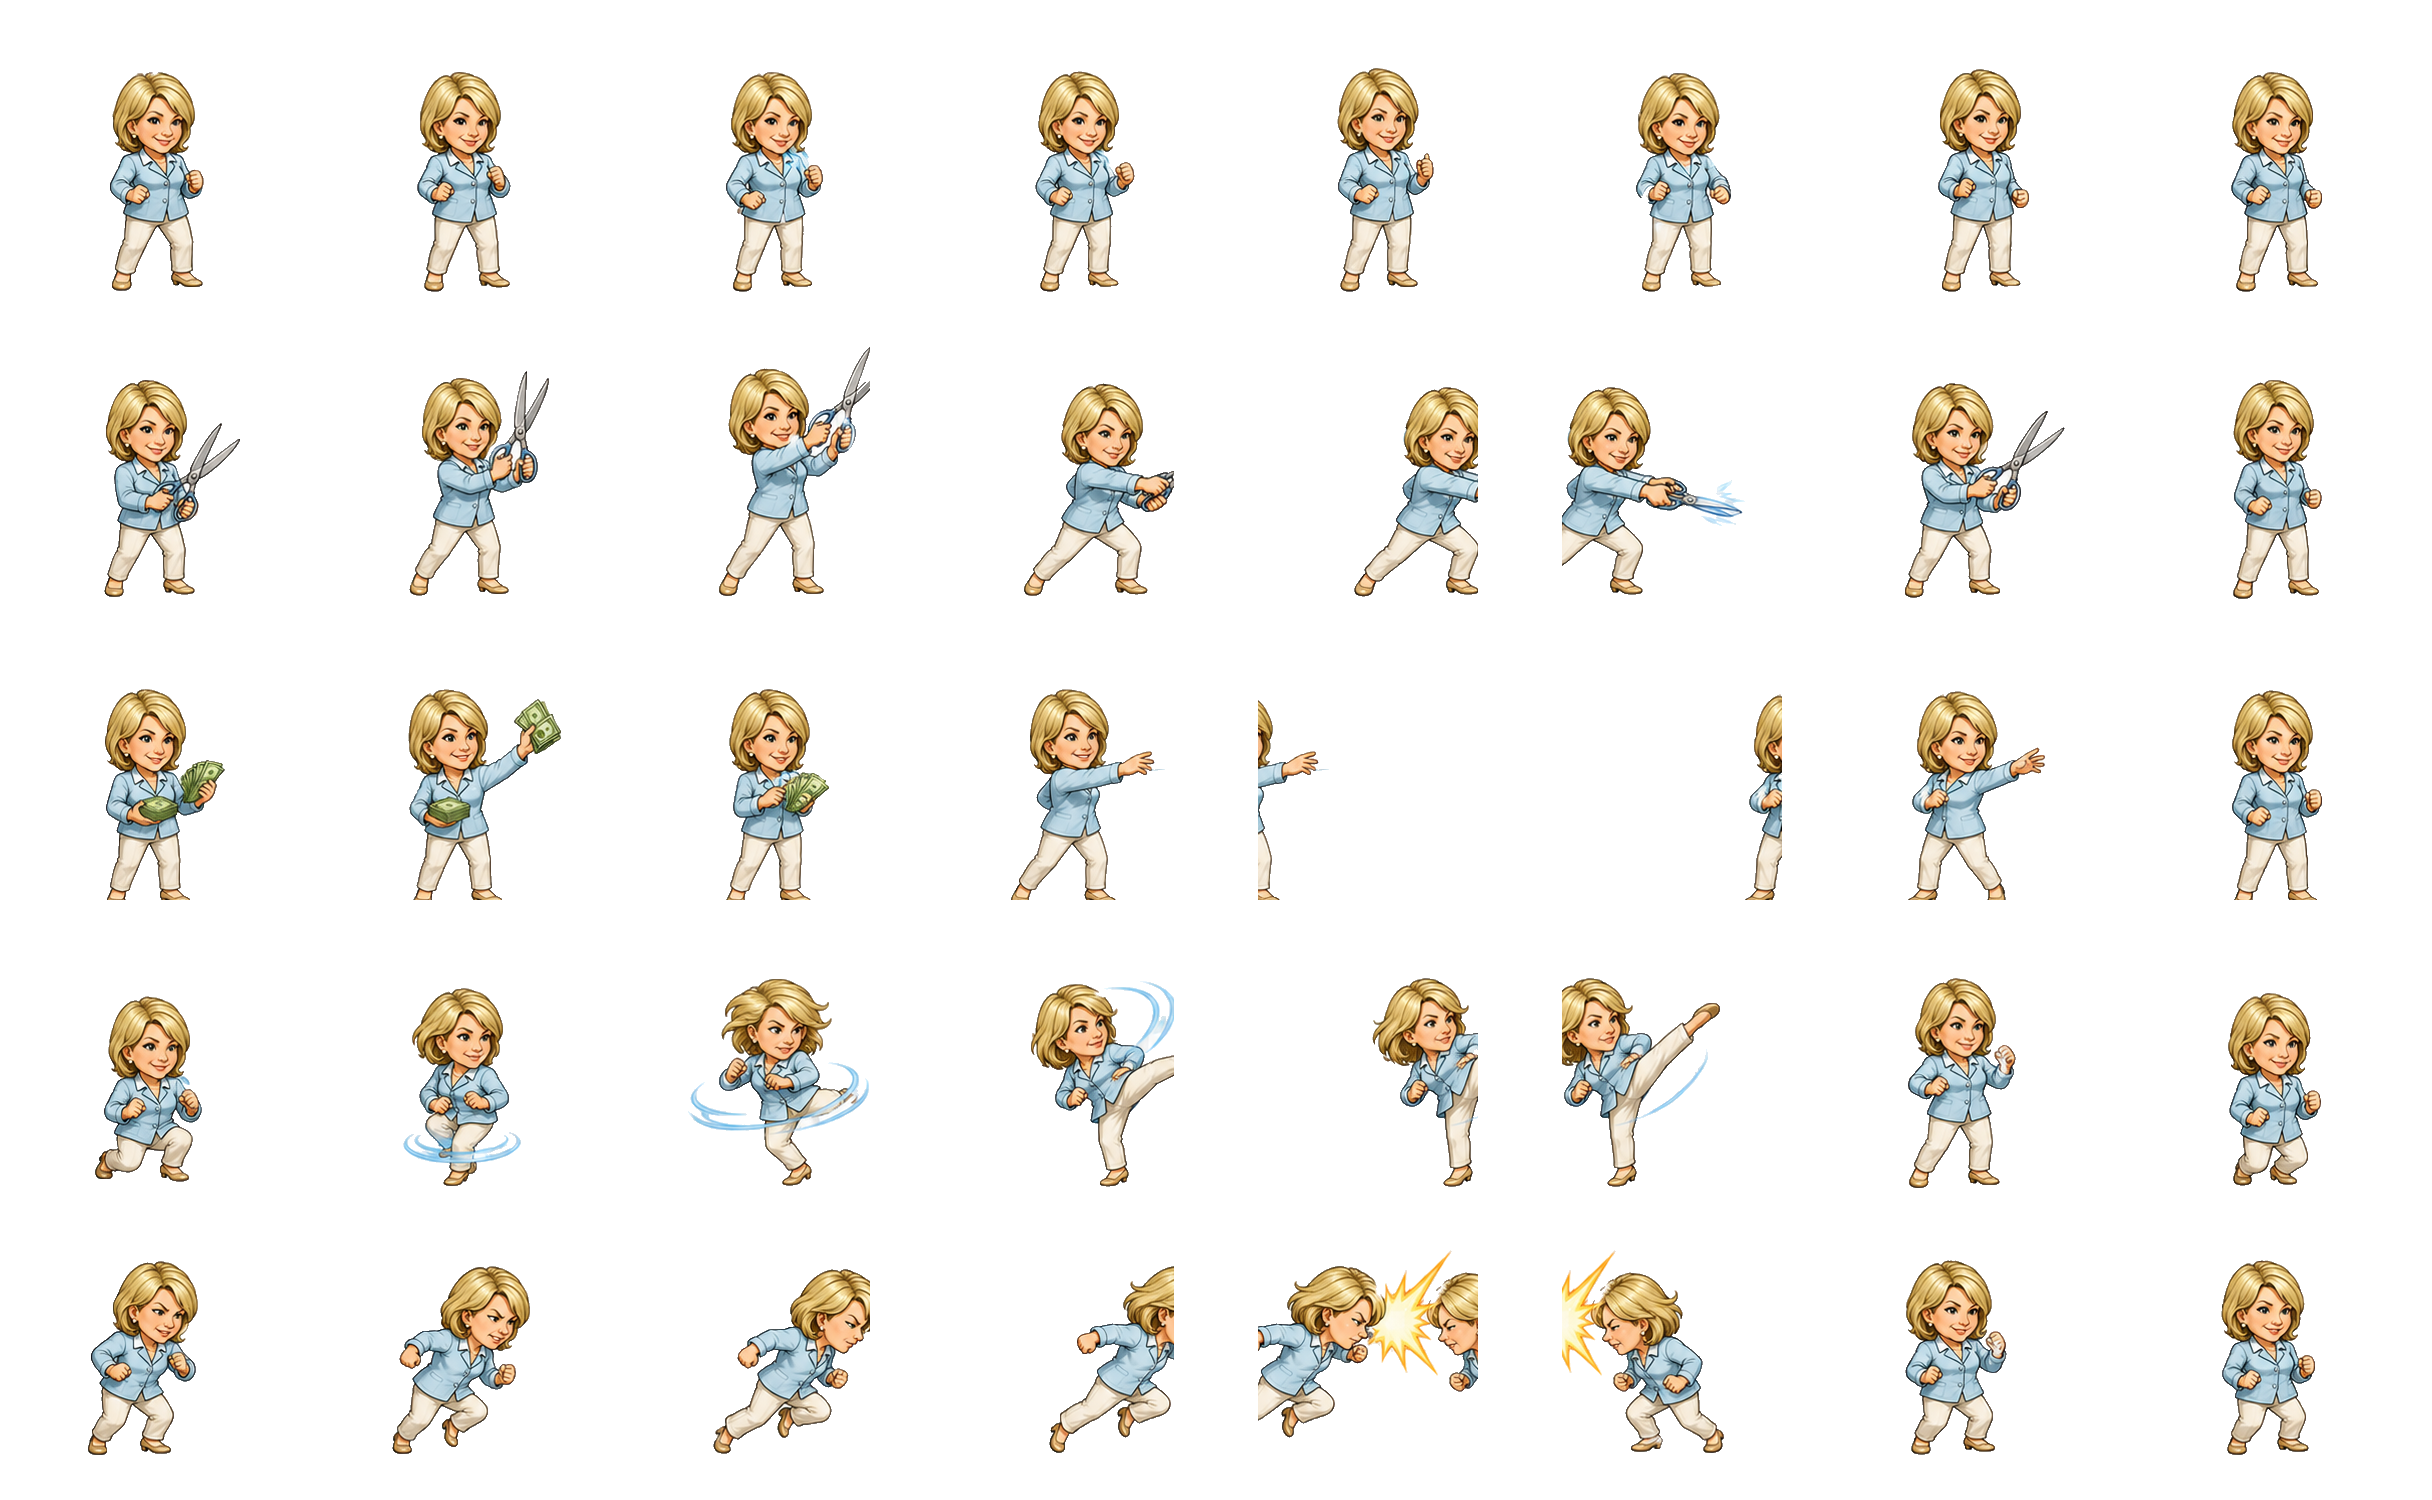
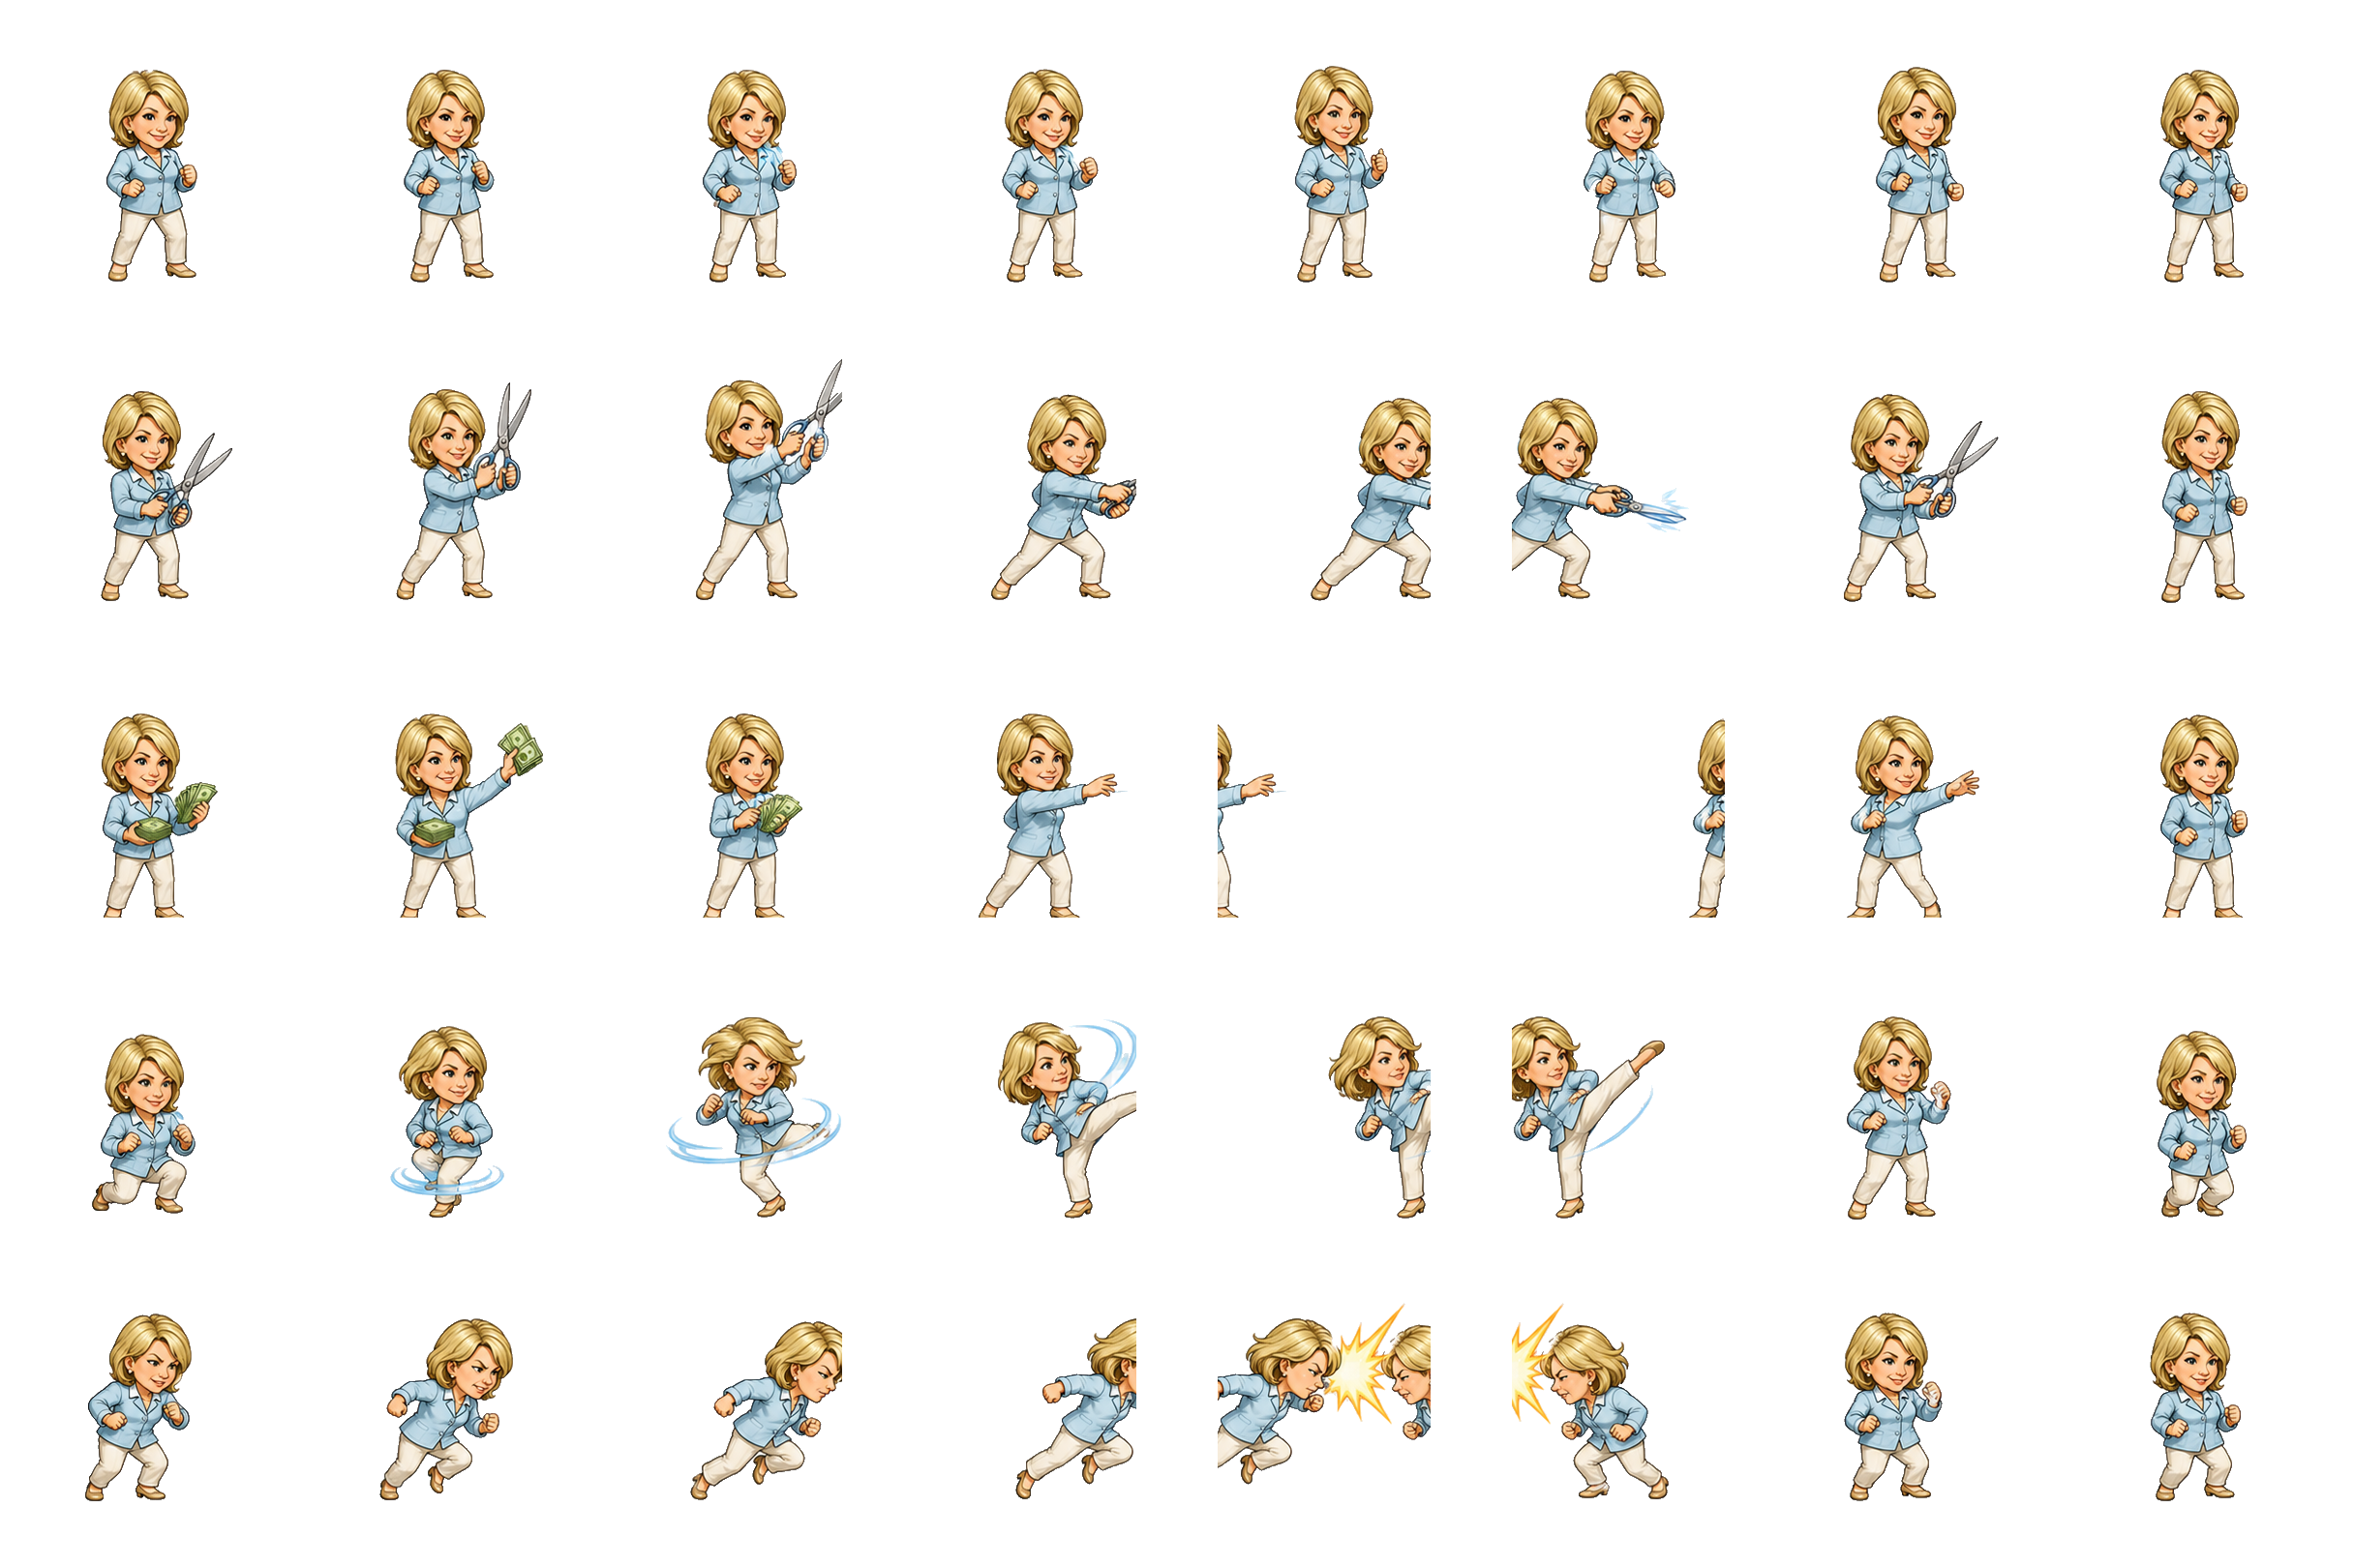
Polish fighter QA issues

diff --git a/src/styles.css b/src/styles.css
@@ -2032,8 +2032,8 @@ h2 {
 
   .attack-diamond,
   .shell:has(#fight-screen:not([hidden])) .attack-diamond {
-    --diamond-size: 152px;
-    --diamond-button: 52px;
+    --diamond-size: 182px;
+    --diamond-button: 56px;
   }
 
   .bonus-actions,
@@ -2060,24 +2060,24 @@ h2 {
 @media (max-width: 360px) {
   .controls,
   .shell:has(#fight-screen:not([hidden])) .controls {
-    grid-template-columns: 70px 144px;
+    grid-template-columns: 70px 150px;
   }
 
   .attack-diamond,
   .shell:has(#fight-screen:not([hidden])) .attack-diamond {
-    --diamond-size: 140px;
-    --diamond-button: 48px;
+    --diamond-size: 162px;
+    --diamond-button: 50px;
   }
 
   .bonus-actions,
   .shell:has(#fight-screen:not([hidden])) .bonus-actions {
-    width: 144px;
+    width: 150px;
   }
 }
 
 @media (max-width: 360px) {
   body.is-fighting .controls {
-    grid-template-columns: 70px 144px;
+    grid-template-columns: 70px 150px;
   }
 
   body.is-fighting .control-actions {
@@ -2089,12 +2089,12 @@ h2 {
   }
 
   body.is-fighting .attack-diamond {
-    --diamond-size: 140px;
-    --diamond-button: 48px;
+    --diamond-size: 162px;
+    --diamond-button: 50px;
   }
 
   body.is-fighting .bonus-actions {
-    width: 144px;
+    width: 150px;
   }
 
   body.is-fighting .joystick {
@@ -2202,8 +2202,8 @@ body.is-fighting .control-actions {
   right: max(12px, env(safe-area-inset-right));
   bottom: max(10px, env(safe-area-inset-bottom));
   display: block;
-  --diamond-size: clamp(170px, 43vw, 218px);
-  --diamond-button: clamp(56px, 14vw, 72px);
+  --diamond-size: clamp(180px, 44vw, 230px);
+  --diamond-button: clamp(50px, 12vw, 64px);
   --bonus-rail-width: clamp(50px, 12vw, 62px);
   --bonus-button-height: clamp(27px, 6.8vw, 31px);
   --bonus-button-gap: 4px;
@@ -2263,7 +2263,12 @@ body.is-fighting .bonus-actions::-webkit-scrollbar {
   body.is-fighting .touch-button.diamond-button {
     min-height: 0 !important;
     padding: 0 !important;
-    font-size: clamp(0.62rem, 2.2vw, 0.78rem) !important;
+    font-size: clamp(0.54rem, 1.95vw, 0.7rem) !important;
+    line-height: 0.92;
+    overflow-wrap: anywhere;
+    text-align: center;
+    text-wrap: balance;
+    white-space: normal;
   }
 
 body.is-fighting .touch-button-bonus {
@@ -2330,13 +2335,13 @@ body.is-fighting .touch-button-bonus {
   }
 
   body.is-fighting .attack-diamond {
-    --diamond-size: clamp(154px, 42vh, 190px) !important;
-    --diamond-button: clamp(50px, 13.4vh, 64px) !important;
+    --diamond-size: clamp(158px, 42vh, 194px) !important;
+    --diamond-button: clamp(46px, 12vh, 58px) !important;
   }
 
   body.is-fighting .control-actions {
-    --diamond-size: clamp(154px, 42vh, 190px);
-    --diamond-button: clamp(50px, 13.4vh, 64px);
+    --diamond-size: clamp(158px, 42vh, 194px);
+    --diamond-button: clamp(46px, 12vh, 58px);
     --bonus-rail-width: clamp(48px, 11vh, 58px);
     --bonus-button-height: clamp(25px, 6.8vh, 30px);
     --bonus-button-gap: 4px;

diff --git a/src/game/TrainingScene.ts b/src/game/TrainingScene.ts
@@ -146,10 +146,16 @@ type CharacterSheetConfig = {
   yOffset: number;
 };
 
-function paddedRuntimeFrame(contentFrameWidth: number, contentFrameHeight: number, contentPadX: number, contentPadTop: number) {
+function paddedRuntimeFrame(
+  contentFrameWidth: number,
+  contentFrameHeight: number,
+  contentPadX: number,
+  contentPadTop: number,
+  contentPadBottom = 0
+) {
   return {
     frameWidth: contentFrameWidth + contentPadX * 2,
-    frameHeight: contentFrameHeight + contentPadTop,
+    frameHeight: contentFrameHeight + contentPadTop + contentPadBottom,
     contentFrameWidth,
     contentFrameHeight,
     contentPadX,
@@ -359,7 +365,7 @@ const characterSheetConfigs: Record<SheetFighterKey, CharacterSheetConfig> = {
   marthaStewart: {
     textureKey: "character-martha-stewart-actions",
     asset: characterAssets.marthaStewartRuntimeActions,
-    ...paddedRuntimeFrame(220, 280, 42, 20),
+    ...paddedRuntimeFrame(220, 280, 42, 20, 24),
     idle: { start: 0, count: 8 },
     heavy: { frames: [8, 9, 10, 11, 12, 14, 15] },
     high: { frames: [16, 17, 18, 19, 22, 23] },
@@ -394,7 +400,7 @@ const characterSheetConfigs: Record<SheetFighterKey, CharacterSheetConfig> = {
   helenKeller: {
     textureKey: "character-helen-keller-actions",
     asset: characterAssets.helenKellerRuntimeActions,
-    ...paddedRuntimeFrame(260, 181, 42, 18),
+    ...paddedRuntimeFrame(260, 181, 42, 18, 24),
     idle: { start: 0, count: 8 },
     light: { frames: [8, 9, 10, 11, 12, 14, 15] },
     high: { frames: [16, 17, 18, 19, 22, 23] },
@@ -429,7 +435,7 @@ const characterSheetConfigs: Record<SheetFighterKey, CharacterSheetConfig> = {
   abrahamLincoln: {
     textureKey: "character-abraham-lincoln-actions",
     asset: characterAssets.abrahamLincolnRuntimeActions,
-    ...paddedRuntimeFrame(220, 234, 38, 18),
+    ...paddedRuntimeFrame(220, 234, 38, 18, 24),
     idle: { frames: [0, 1, 2, 3, 4, 5, 6, 7] },
     light: { frames: [8, 9, 10, 11, 14, 15] },
     heavy: { frames: [16, 17, 18, 19, 22, 23] },
@@ -1367,8 +1373,12 @@ export class TrainingScene extends Phaser.Scene {
       align: "center",
       color: "#334039",
       fontFamily: "Arial",
-      fontSize: "18px",
-      fontStyle: "bold"
+      fontSize: "15px",
+      fontStyle: "bold",
+      wordWrap: {
+        width: 720,
+        useAdvancedWrap: true
+      }
     });
     this.statusText.setOrigin(0.5);
 
@@ -2308,7 +2318,7 @@ export class TrainingScene extends Phaser.Scene {
       const partsMode = isPartsMode(this.settings);
       this.statusText.setText(
         !partsMode
-          ? `Standard fighter: ${getControlHint(player)}. Punish whiffs for counters; pressure blocks to crush guard.`
+          ? "Standard: punish whiffs, build combos, pressure guard."
           : abilitySummary
           ? `Animal abilities: ${abilitySummary}.`
           : attachments
@@ -3937,7 +3947,7 @@ function getAttackControlsForFighter(fighter: FighterSnapshot): AttackControlDef
   }
 
   if (fighter.key === "koolAidMan") {
-    return controls(["Juice Splash", "high"], ["Punch", "light"], ["Kick", "kick"], ["Wall Burst", "heavy"]);
+    return controls(["Splash", "high"], ["Punch", "light"], ["Kick", "kick"], ["Wall Burst", "heavy"]);
   }
 
   return controls(["High", "high"], ["Strike", "light"], ["Kick", "kick"], ["Sweep", "low"]);
@@ -3979,7 +3989,7 @@ function getModeStatus(settings: GameLaunchSettings) {
         : "health lead wins";
 
   if (settings.matchType === "testing") {
-    return "Testing lab: spawn parts freely, no deaths, exit from the menu button";
+    return "Testing lab: spawn parts, no deaths, exit from menu";
   }
 
   if (settings.matchType === "online") {
@@ -3987,7 +3997,7 @@ function getModeStatus(settings: GameLaunchSettings) {
   }
 
   if (settings.mode === "standardFighter") {
-    return `Standard fighter: no limb removal, no part drops, ${roundRule}`;
+    return `Standard fighter: clean duel, ${roundRule}`;
   }
 
   if (settings.mode === "storySpar") {